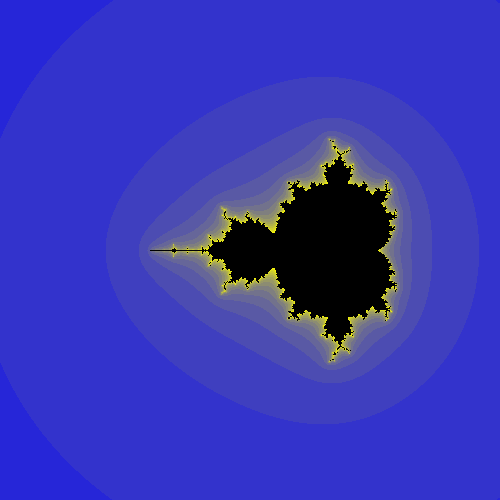
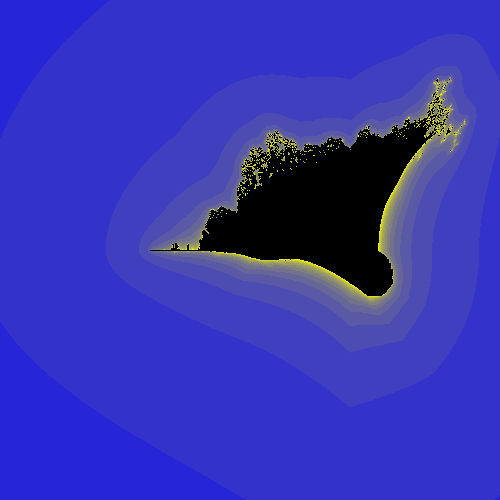
Add burning ship fractal

Changed region(s): [[0.33, 0.12, 0.96, 0.75], [0.6, 0.75, 0.63, 0.78]]

diff --git a/scls_image_directory/scls_image_fractal.h b/scls_image_directory/scls_image_fractal.h
@@ -20,6 +20,54 @@
 namespace scls
 {
     // Return an image with a Mandelbrot fractal drawn on it
+    inline Image* burning_ship_fractal(unsigned short width, unsigned short height) {
+        // Define the size of the fractale
+        double min_x = -2.5;
+        double min_y = -2.5;
+        double width_fractal = 5;
+        double height_fractal = 5;
+
+        // Create the image
+        Image* img = new Image(width, height, 255, 255, 255);
+
+        // Draw the fractal pixel by pixel
+        for(int i = 0;i<width;i++) {
+            for(int j = 0;j<height;j++) {
+                // Define each needed complex
+                double c_imaginary = min_y + (j / static_cast<double>(height)) * height_fractal;
+                double c_real = min_x + (i / static_cast<double>(width)) * width_fractal;
+                double z_imaginary = 0;
+                double z_real = 0;
+
+                // Define the needed variables to test the function
+                unsigned char it = 0;
+                unsigned char max_iteration = 20;
+                unsigned char max_size = 100;
+
+                // Do the function
+                while(it < max_iteration && sqrt(z_imaginary * z_imaginary + z_real * z_real) < max_size) {
+                    double temp_real = z_real;
+                    z_real = abs(temp_real * temp_real - z_imaginary * z_imaginary - 1 + c_real);
+                    z_imaginary = abs(2 * z_imaginary * temp_real + c_imaginary);
+
+                    it++;
+                }
+
+                // Draw the pixel
+                if(it == max_iteration) {
+                    img->set_pixel(i, j, 0, 0, 0);
+                }
+                else {
+                    img->set_pixel(i, j, (static_cast<double>(it) / static_cast<double>(max_iteration)) * 255.0, (static_cast<double>(it) / static_cast<double>(max_iteration)) * 255.0, 255 - (static_cast<double>(it) / static_cast<double>(max_iteration)) * 255.0);
+                }
+            }
+        }
+
+        // Return the image
+        return img;
+    };
+
+    // Return an image with a Mandelbrot fractal drawn on it
     inline Image* mandelbrot_fractal(unsigned short width, unsigned short height) {
         // Define the size of the fractale
         double min_x = -2.5;

diff --git a/test.cpp b/test.cpp
@@ -6,7 +6,7 @@ using namespace std;
 
 int main()
 {
-    scls::Image* img = scls::mandelbrot_fractal(500, 500);
+    scls::Image* img = scls::burning_ship_fractal(500, 500);
     img->save_png("mandelbrot.png");
 
     return 0;
